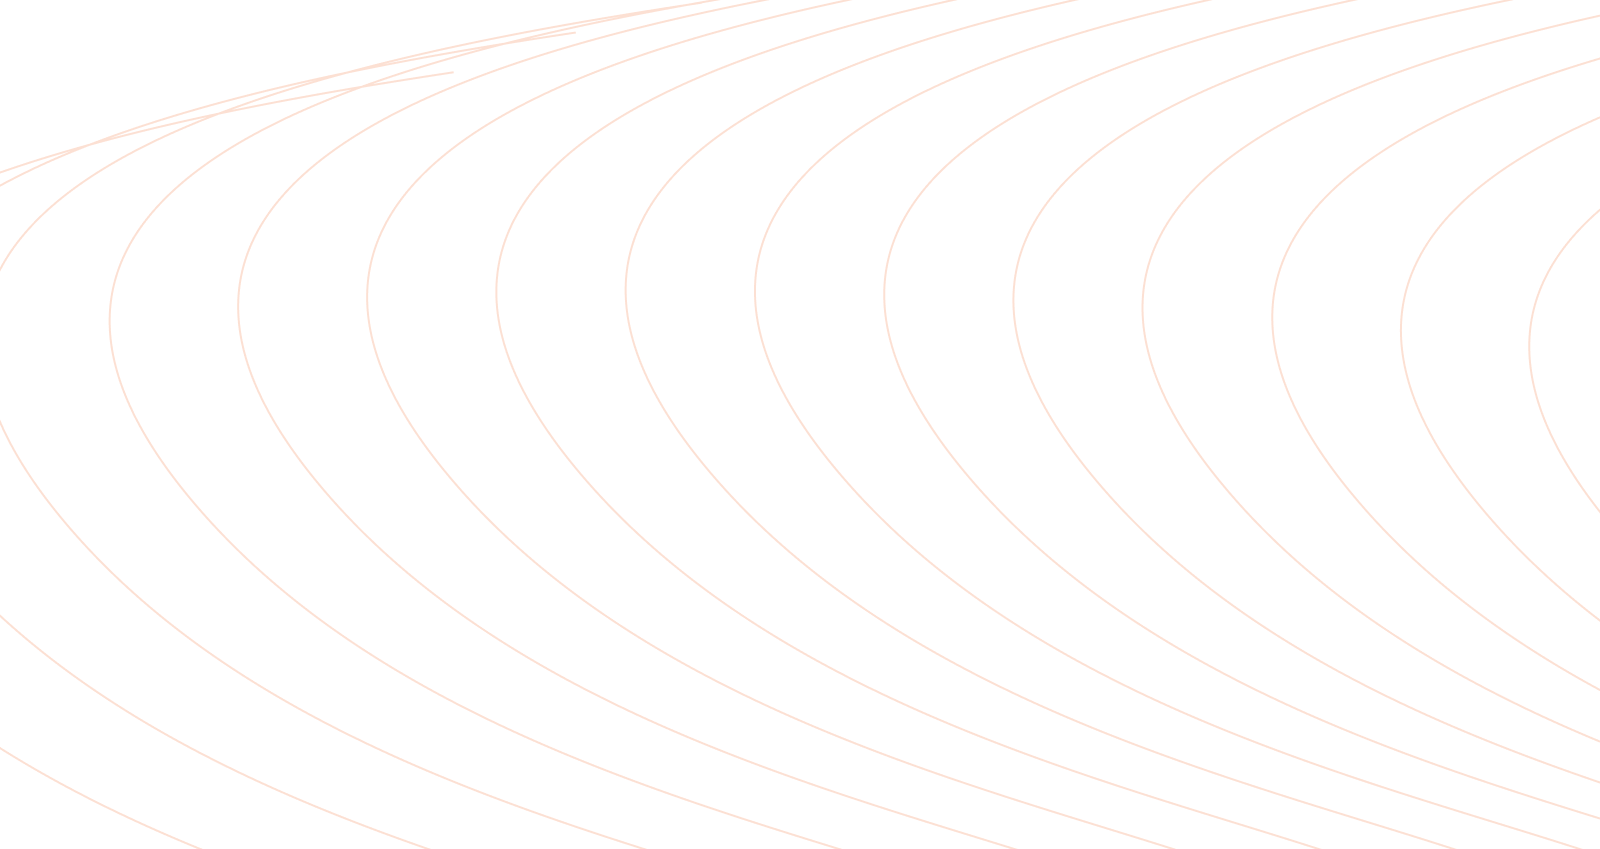
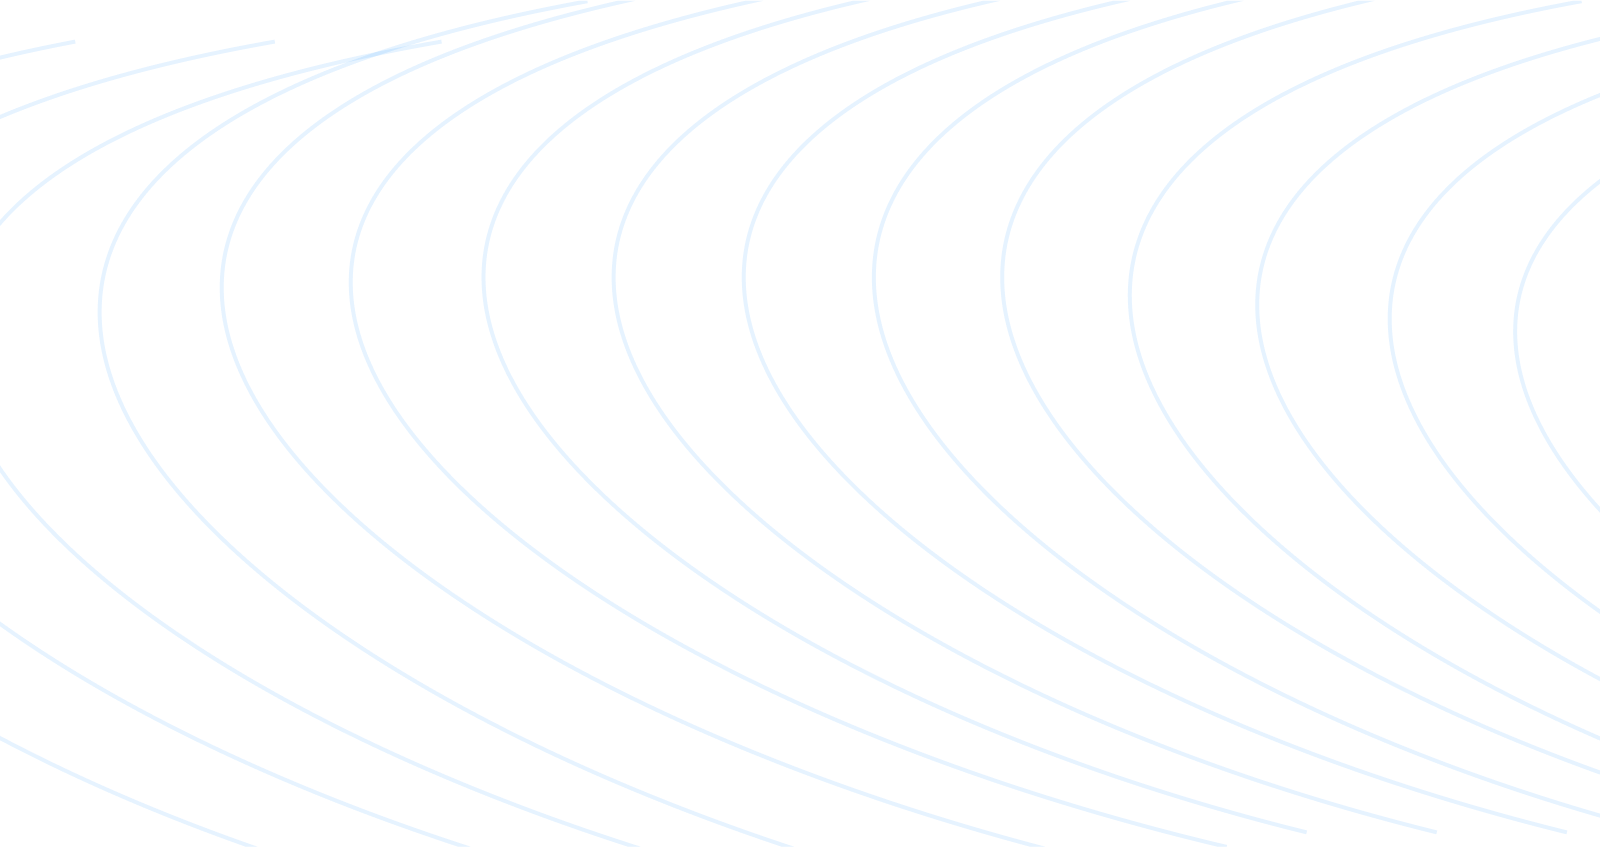
background image changes

diff --git a/public/assets/css/style.css b/public/assets/css/style.css
@@ -2075,9 +2075,11 @@ ul.nav.nav-tabs.clients {
 .nav-tabs .nav-link.active {
     border: unset;
     box-shadow: 0px 0px 80px 0px #0000001a;
-    background: linear-gradient(267deg, #ff9b44 0%, #047EFF 100%);
-    background: -webkit-linear-gradient(267deg, #ff9b44 0%, #047EFF 100%);
-    background: -moz-linear-gradient(267deg, #ff9b44 0%, #047EFF 100%);
+    /* background: linear-gradient(267deg, #ff9b44 0%, #047EFF 100%);
+    background: -webkit-linear-gradient(267deg, #ff9b44 0%, #047EFF 100%); */
+    background:#047EFF;
+    /* background: */
+     /* -moz-linear-gradient(267deg, #ff9b44 0%, #047EFF 100%); */
     color: #ffffff !important;
     line-height: 1.2;
     border-radius: 5px;
@@ -2909,17 +2911,14 @@ nav.land-menu.land3 ul li a {
 }
 nav.land-menu ul li a {
     line-height: 1.2;
-    color: #fff;
+    color: #000;
     font-weight: 600;
 }
 nav.land-menu ul li a:hover {
     color: #252c4b;
 }
 .header-land {
-    background: radial-gradient(56.9% 327.75% at 45.42% 59.81%, #3698ff 0%, rgb(54, 152, 255) 44.58%, rgba(172, 172, 172, 0.02) 100%);;
-
-    /* background: radial-gradient(56.9% 327.75% at 45.42% 59.81%, rgba(255, 155, 68, 0.11) 0%, rgba(249, 212, 215, 0.33) 44.58%, rgba(172, 172, 172, 0.02) 100%); */
-    /* padding: 15px auto; */
+    background: rgb(230, 242, 255)
 }
 .main-menu-head {
     align-items: center;
@@ -3113,7 +3112,10 @@ input.formcontrol {
     top: 0px;
     /* padding-top: 80px; */
     padding-bottom: 65px;
-    background: radial-gradient(56.9% 327.75% at 45.42% 59.81%, #3698ff 0%, rgb(54, 152, 255) 44.58%, rgba(172, 172, 172, 0.02) 100%);;
+    background:rgb(230, 242, 255)
+     /* radial-gradient(56.9% 327.75% at 45.42% 59.81%, #3698ff 0%, rgb(54, 152, 255) 44.58%, rgba(172, 172, 172, 0.02) 100%);; */
+
+
 }
 .home-section-vector-left-top {
     position: absolute;

diff --git a/src/App.js b/src/App.js
@@ -86,10 +86,10 @@ function App() {
                 <div className="col-lg-5 col-sm-5 col-12">
                   <div className="process-content">
 
-                    <h1 className="mb-2 text-white aos-init aos-animate" data-aos="fade-up" data-aos-duration="1500">
+                    <h1 className="mb-2 text-dark aos-init aos-animate" data-aos="fade-up" data-aos-duration="1500">
                       Future-Ready HR for a Dynamic Workplace.
                     </h1>
-                    <p data-aos="fade-up" data-aos-duration="1500" data-aos-delay="300" data-aos-once="true" className="text-white">Prepare your HR department for the future with our adaptable HRMS, designed to meet the needs of a dynamic workplace and foster a culture of continuous improvement.</p>
+                    <p data-aos="fade-up" data-aos-duration="1500" data-aos-delay="300" data-aos-once="true" className="text-gray">Prepare your HR department for the future with our adaptable HRMS, designed to meet the needs of a dynamic workplace and foster a culture of continuous improvement.</p>
 
                     {/* <a href="#" className="d-inline-flex align-items-center btn btn-primary aos-init aos-animate" data-aos="fade-up" data-aos-duration="1500" data-aos-delay="400" data-aos-once="true">Book a Demo <i className="ti ti-arrow-right ms-1"></i></a> */}
                     <button className="req-btn" onClick={handleOpen} data-aos="fade-up" data-aos-duration="1500" data-aos-delay="400" data-aos-once="true">Book a Demo →</button>

diff --git a/src/index.css b/src/index.css
@@ -9,9 +9,10 @@
 }
 
 .main-testimonial-slides {
-  background: url("./assets/essential-feature-bg.png");
   /* background-color: #FEF1EB; */
-  background: radial-gradient(56.9% 327.75% at 45.42% 59.81%, rgb(87, 169, 255) 0%, #57a9ff 44.58%, rgba(172, 172, 172, 0.02) 100%);
+  background: rgb(230, 242, 255);
+  background-image: url("./assets/essential-feature-bg.png");
+  /* radial-gradient(56.9% 327.75% at 45.42% 59.81%, rgb(87, 169, 255) 0%, #57a9ff 44.58%, rgba(172, 172, 172, 0.02) 100%); */
   ;
 
 }
@@ -301,7 +302,8 @@ h2 {
 
 .bg-plight {
   /* background: #FEF1EB; */
-  background: linear-gradient(275.55deg, #047eff 0%, rgb(4, 126, 255) 100%);
+  background:rgb(230, 242, 255);
+   /* linear-gradient(275.55deg, #047eff 0%, rgb(4, 126, 255) 100%); */
 }
 
 .testimonial-slider .slick-prev,
@@ -508,7 +510,9 @@ h2 {
   -ms-transition: all 0.5s ease;
   transition: all 0.5s ease;
 }
-
+.site-branding-logo img {
+  max-width: 110px;
+}
 .back-to-top-icon.show {
   opacity: 1;
   -webkit-transition: all 0.5s ease;

diff --git a/src/components/TestimonialOne.js b/src/components/TestimonialOne.js
@@ -83,7 +83,7 @@ const TestimonialOne = () => {
                 <div className="testimonial-section container">
                     <div className="row">
                         <div className="col-12 text-start">
-                            <h2 className="text-white px-sm-3">What our customers say about our company</h2>
+                            <h2 className="text-dark px-sm-3">What our customers say about our company</h2>
                         </div>
                     </div>
                     <Slider {...settings} className="testimonial-slider">

diff --git a/src/components/Testimonial.js b/src/components/Testimonial.js
@@ -6,7 +6,7 @@ function Testimonial() {
             <div class="container">
                 <div class="row" data-aos="fade-up" data-aos-duration="2000">
                     <div class="common-title-sections">
-                        <h3 className='text-white m-0'>Essential Features for HRMS SaaS Solutions
+                        <h3 className='text-dark m-0'>Essential Features for HRMS SaaS Solutions
                         </h3>
                     </div>
                 </div>
